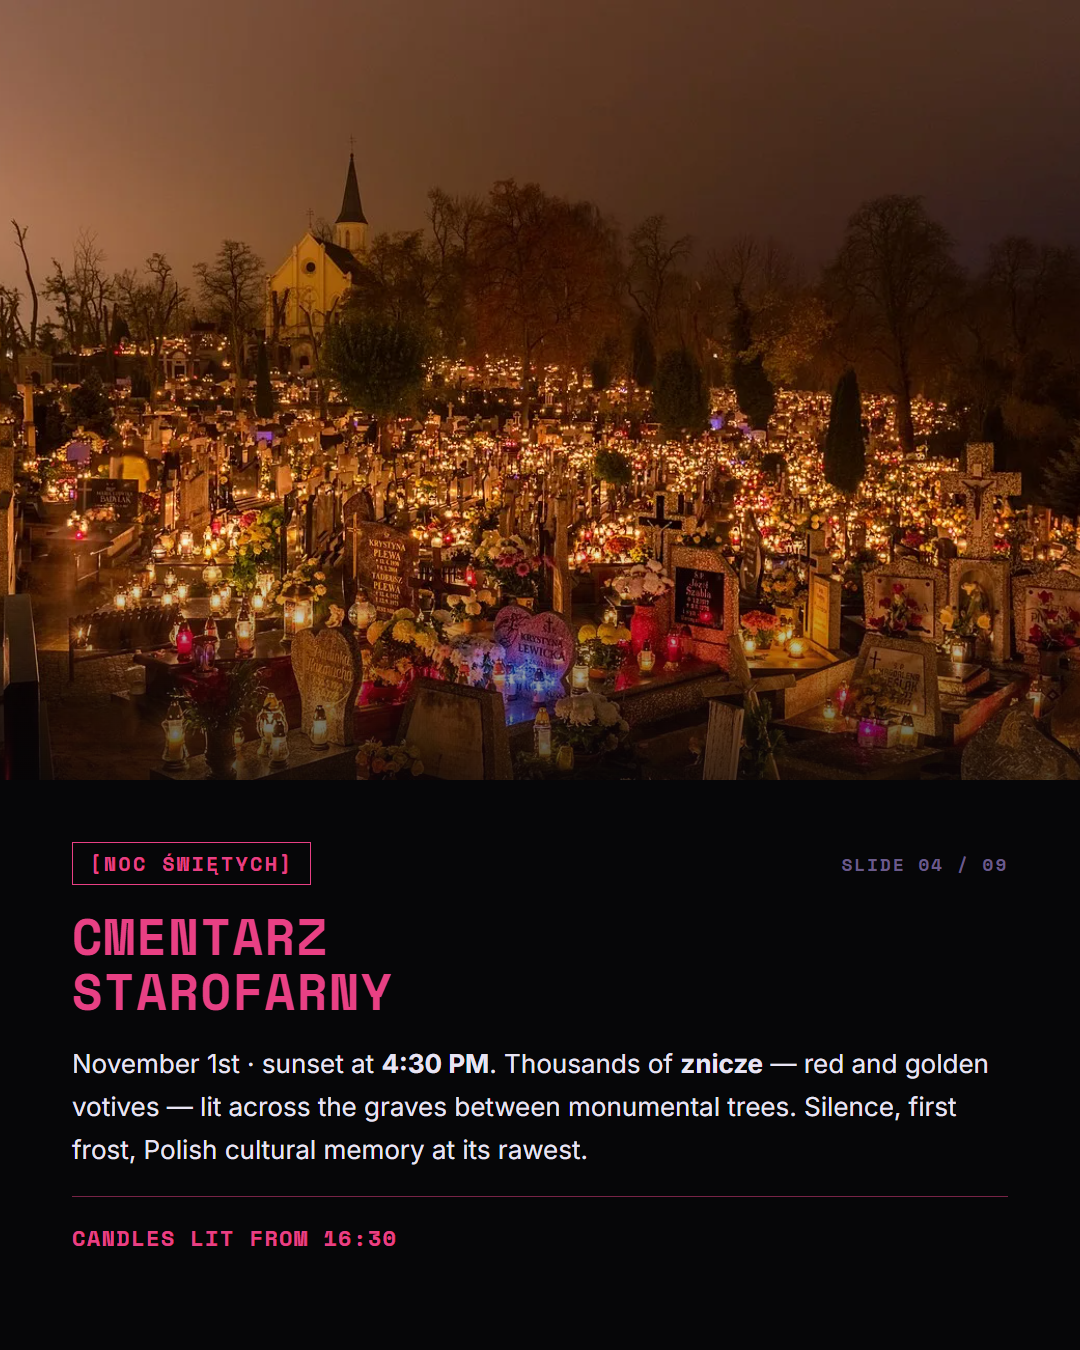
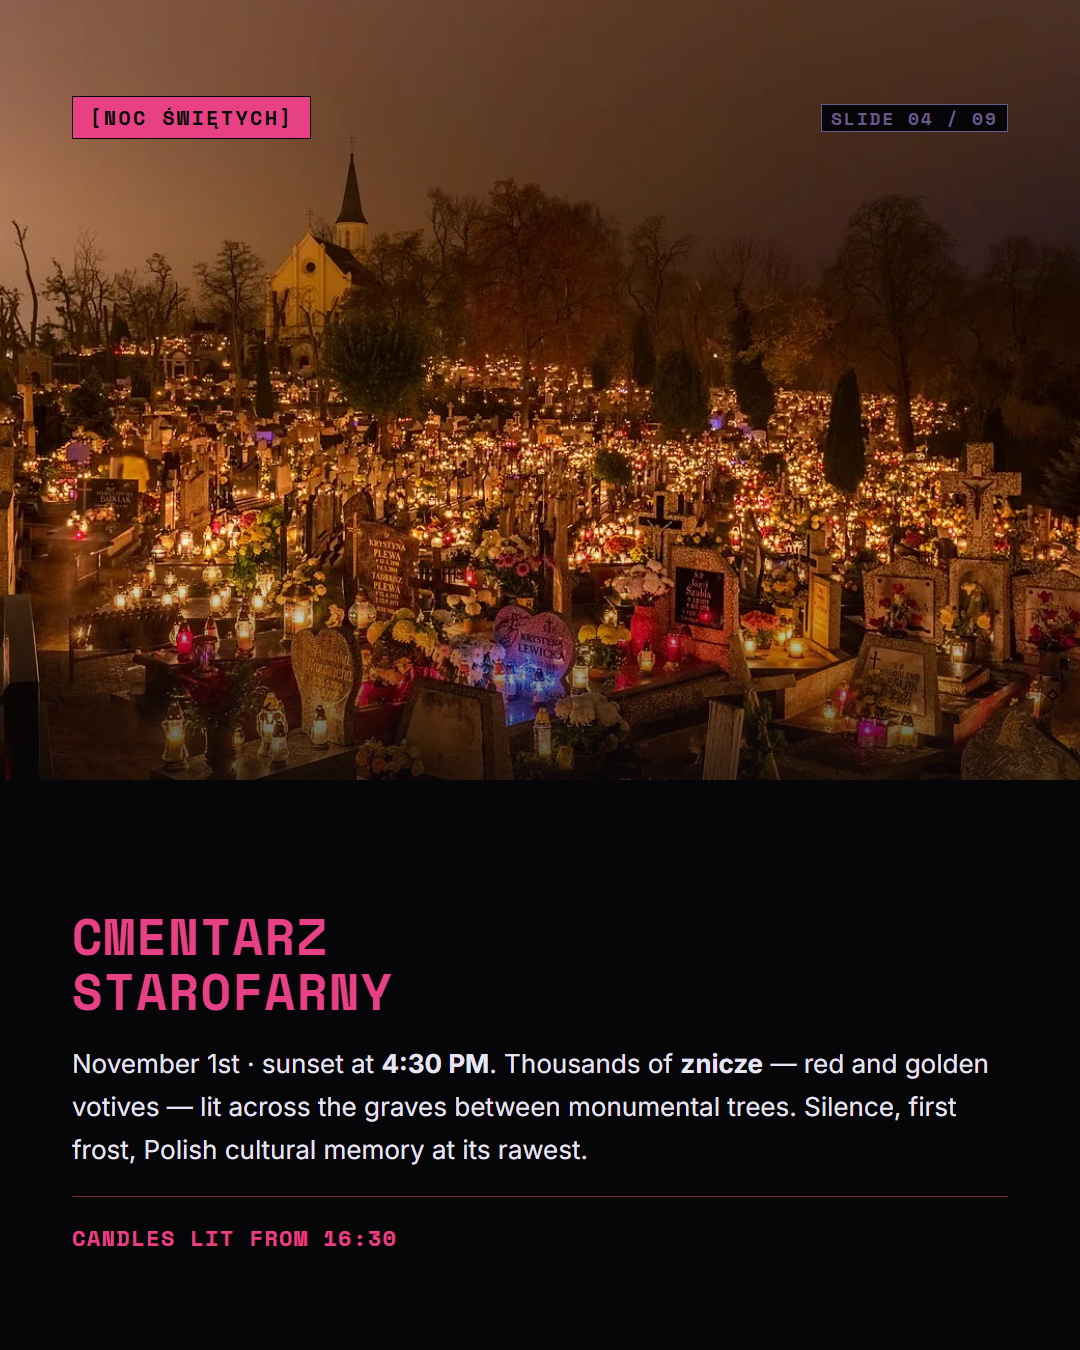
feat: added inverted css class for better contrast

diff --git a/Poland - November/index.html b/Poland - November/index.html
@@ -266,6 +266,23 @@ body {
     display: inline-block;
     padding: 6px 16px;
   }
+    .tag-inverted {
+    font-family: 'Space Mono', monospace;
+    font-size: 20px; font-weight: 700;
+    letter-spacing: .12em; text-transform: uppercase;
+    color: var(--text); border: 1px solid var(--text);
+    background-color: var(--accent);
+    display: inline-block; padding: 6px 16px;
+  }
+    .counter-inverted {
+    font-family: 'Space Mono', monospace;
+    font-size: 18px; font-weight: 700;
+    letter-spacing: .1em; color: var(--text-muted);
+    border: 1px solid var(--text-muted);
+    background-color: var(--bg);
+    padding-left: 1%;
+    padding-right: 1%;
+  }
   .counter {
     font-family: 'Space Mono', monospace;
     font-size: 18px; font-weight: 700;
@@ -624,11 +641,11 @@ body { background: var(--page-bg) !important; }
   <div class="overlay" style="height:800px;
     background:linear-gradient(to top,#060608 58%,transparent);"></div>
   <div class="safe col gap-48">
+          <div class="row">
+        <span class="tag-inverted">[CANALS]</span>
+        <span class="counter-inverted">SLIDE 03 / 09</span>
+  </div>
     <div class="col gap-24 mt-auto">
-      <div class="row">
-        <span class="tag">[CANALS]</span>
-        <span class="counter">SLIDE 03 / 09</span>
-      </div>
       <div class="title-large">WYSPA<br>MŁYŃSKA</div>
       <div class="body-text">
         Mill Island on the Brda river. Historic <strong>18th-century red brick
@@ -653,11 +670,12 @@ body { background: var(--page-bg) !important; }
   <div class="overlay" style="height:820px;
     background:linear-gradient(to top,#060608 60%,rgba(6,6,8,.3) 85%,transparent);"></div>
   <div class="safe col gap-48">
-    <div class="col gap-24 mt-auto">
-          <div class="row">
-      <span class="tag" style="color:var(--accent2);border-color:var(--accent2);">[NOC ŚWIĘTYCH]</span>
-      <span class="counter">SLIDE 04 / 09</span>
+              <div class="row">
+      <span class="tag" style="color:var(--bg);border-color:var(--bg); background-color: var(--accent2);">[NOC ŚWIĘTYCH]</span>
+      <span class="counter-inverted">SLIDE 04 / 09</span>
     </div>
+    <div class="col gap-24 mt-auto">
+
       <div class="title-medium" style="color:var(--accent2);">CMENTARZ<br>STAROFARNY</div>
       <div class="body-text">
         November 1st · sunset at <strong>4:30 PM</strong>.
@@ -682,11 +700,12 @@ body { background: var(--page-bg) !important; }
   <div class="overlay" style="height:770px;
     background:linear-gradient(to top,#060608 57%,transparent);"></div>
   <div class="safe col gap-48">
-    <div class="col gap-24 mt-auto">
-      <div class="row">
-        <span class="tag">[UNESCO]</span>
-        <span class="counter">SLIDE 05 / 09</span>
+          <div class="row">
+        <span class="tag-inverted">[UNESCO]</span>
+        <span class="counter-inverted">SLIDE 05 / 09</span>
       </div>
+    <div class="col gap-24 mt-auto">
+
       <div class="title-large">TORUŃ<br>GOTHIC</div>
       <div class="body-text">
         The only Polish city to survive WWII intact.
@@ -714,11 +733,12 @@ body { background: var(--page-bg) !important; }
   <div class="overlay" style="height:760px;
     background:linear-gradient(to top,#060608 56%,transparent);"></div>
   <div class="safe col gap-48">
-    <div class="col gap-24 mt-auto">
-      <div class="row">
-        <span class="tag">[MEDIEVAL]</span>
-        <span class="counter">SLIDE 06 / 09</span>
+          <div class="row">
+        <span class="tag-inverted">[MEDIEVAL]</span>
+        <span class="counter-inverted">SLIDE 06 / 09</span>
       </div>
+    <div class="col gap-24 mt-auto">
+
       <div class="title-large">POZNAŃ<br>RYNEK</div>
       <div class="body-text">
         Renaissance Town Hall by <strong>Giovanni Battista di Quadro</strong>

diff --git a/Poland - November/slides.html b/Poland - November/slides.html
@@ -50,6 +50,23 @@
     display: inline-block;
     padding: 6px 16px;
   }
+      .tag-inverted {
+    font-family: 'Space Mono', monospace;
+    font-size: 20px; font-weight: 700;
+    letter-spacing: .12em; text-transform: uppercase;
+    color: var(--text); border: 1px solid var(--text);
+    background-color: var(--accent);
+    display: inline-block; padding: 6px 16px;
+  }
+    .counter-inverted {
+    font-family: 'Space Mono', monospace;
+    font-size: 18px; font-weight: 700;
+    letter-spacing: .1em; color: var(--text-muted);
+    border: 1px solid var(--text-muted);
+    background-color: var(--bg);
+    padding-left: 1%;
+    padding-right: 1%;
+  }
   .counter {
     font-family: 'Space Mono', monospace;
     font-size: 18px; font-weight: 700;
@@ -354,11 +371,12 @@
   <div class="overlay" style="height:800px;
     background:linear-gradient(to top,#060608 58%,transparent);"></div>
   <div class="safe col gap-48">
-    <div class="col gap-24 mt-auto">
-      <div class="row">
-        <span class="tag">[CANALS]</span>
-        <span class="counter">SLIDE 03 / 09</span>
+          <div class="row">
+        <span class="tag-inverted">[CANALS]</span>
+        <span class="counter-inverted">SLIDE 03 / 09</span>
       </div>
+    <div class="col gap-24 mt-auto">
+
       <div class="title-large">WYSPA<br>MŁYŃSKA</div>
       <div class="body-text">
         Mill Island on the Brda river. Historic <strong>18th-century red brick
@@ -383,11 +401,11 @@
   <div class="overlay" style="height:820px;
     background:linear-gradient(to top,#060608 60%,rgba(6,6,8,.3) 85%,transparent);"></div>
   <div class="safe col gap-48">
-    <div class="col gap-24 mt-auto">
-          <div class="row">
-      <span class="tag" style="color:var(--accent2);border-color:var(--accent2);">[NOC ŚWIĘTYCH]</span>
-      <span class="counter">SLIDE 04 / 09</span>
+                  <div class="row">
+      <span class="tag" style="color:var(--bg);border-color:var(--bg); background-color: var(--accent2);">[NOC ŚWIĘTYCH]</span>
+      <span class="counter-inverted">SLIDE 04 / 09</span>
     </div>
+    <div class="col gap-24 mt-auto">
       <div class="title-medium" style="color:var(--accent2);">CMENTARZ<br>STAROFARNY</div>
       <div class="body-text">
         November 1st · sunset at <strong>4:30 PM</strong>.
@@ -412,11 +430,12 @@
   <div class="overlay" style="height:770px;
     background:linear-gradient(to top,#060608 57%,transparent);"></div>
   <div class="safe col gap-48">
-    <div class="col gap-24 mt-auto">
-      <div class="row">
-        <span class="tag">[UNESCO]</span>
-        <span class="counter">SLIDE 05 / 09</span>
+          <div class="row">
+        <span class="tag-inverted">[UNESCO]</span>
+        <span class="counter-inverted">SLIDE 05 / 09</span>
       </div>
+    <div class="col gap-24 mt-auto">
+
       <div class="title-large">TORUŃ<br>GOTHIC</div>
       <div class="body-text">
         The only Polish city to survive WWII intact.
@@ -444,11 +463,12 @@
   <div class="overlay" style="height:760px;
     background:linear-gradient(to top,#060608 56%,transparent);"></div>
   <div class="safe col gap-48">
-    <div class="col gap-24 mt-auto">
-      <div class="row">
-        <span class="tag">[MEDIEVAL]</span>
-        <span class="counter">SLIDE 06 / 09</span>
+          <div class="row">
+        <span class="tag-inverted">[MEDIEVAL]</span>
+        <span class="counter-inverted">SLIDE 06 / 09</span>
       </div>
+    <div class="col gap-24 mt-auto">
+
       <div class="title-large">POZNAŃ<br>RYNEK</div>
       <div class="body-text">
         Renaissance Town Hall by <strong>Giovanni Battista di Quadro</strong>

diff --git a/Serbia - New Years eve/index.html b/Serbia - New Years eve/index.html
@@ -262,11 +262,28 @@ body {
     color: var(--accent); border: 1px solid var(--accent);
     display: inline-block; padding: 6px 16px;
   }
+  .tag-inverted {
+    font-family: 'Space Mono', monospace;
+    font-size: 20px; font-weight: 700;
+    letter-spacing: .12em; text-transform: uppercase;
+    color: var(--text); border: 1px solid var(--text);
+    background-color: var(--accent);
+    display: inline-block; padding: 6px 16px;
+  }
   .tag-hot { color: var(--accent2); border-color: var(--accent2); }
   .counter {
     font-family: 'Space Mono', monospace;
     font-size: 18px; font-weight: 700;
     letter-spacing: .1em; color: var(--text-muted);
+  }
+  .counter-inverted {
+    font-family: 'Space Mono', monospace;
+    font-size: 18px; font-weight: 700;
+    letter-spacing: .1em; color: var(--text-muted);
+    border: 1px solid var(--text-muted);
+    background-color: var(--bg);
+    padding-left: 1%;
+    padding-right: 1%;
   }
   .title-display {
     font-family: 'Space Mono', monospace;
@@ -531,11 +548,12 @@ body { background: var(--page-bg) !important; }
   <div class="overlay" style="height:810px;
     background:linear-gradient(to top,#060608 58%,transparent);"></div>
   <div class="safe col">
-    <div class="col gap-24 mt-auto">
-          <div class="row">
-      <span class="tag">[BRUTALISM]</span>
-      <span class="counter">SLIDE 03 / 09</span>
+    <div class="row">
+      <span class="tag-inverted">[BRUTALISM]</span>
+      <span class="counter-inverted">SLIDE 03 / 09</span>
     </div>
+    <div class="col gap-24 mt-auto">
+
       <div class="title-large">NOVI<br>BEOGRAD</div>
       <div class="body-text">
         Built from scratch on marshland after WWII — the most
@@ -561,11 +579,11 @@ body { background: var(--page-bg) !important; }
   <div class="overlay" style="height:790px;
     background:linear-gradient(to top,#060608 58%,transparent);"></div>
   <div class="safe col">
-    <div class="col gap-24 mt-auto">
-          <div class="row">
-      <span class="tag">[EASTERN GATE]</span>
-      <span class="counter">SLIDE 04 / 09</span>
+              <div class="row">
+      <span class="tag-inverted">[EASTERN GATE]</span>
+      <span class="counter-inverted">SLIDE 04 / 09</span>
     </div>
+    <div class="col gap-24 mt-auto">
       <div class="title-large">KAPIJA<br>BEOGRADA</div>
       <div class="body-text">
         Three brutalist towers marking the eastern entrance
@@ -619,11 +637,12 @@ body { background: var(--page-bg) !important; }
   <div class="overlay" style="height:770px;
     background:linear-gradient(to top,#060608 57%,transparent);"></div>
   <div class="safe col">
-    <div class="col gap-24 mt-auto">
-          <div class="row">
-      <span class="tag">[ZEMUN]</span>
-      <span class="counter">SLIDE 06 / 09</span>
+              <div class="row">
+      <span class="tag-inverted">[ZEMUN]</span>
+      <span class="counter-inverted">SLIDE 06 / 09</span>
     </div>
+    <div class="col gap-24 mt-auto">
+
       <div class="title-large">GARDOŠ<br>TOWER</div>
       <div class="body-text">
         Austro-Hungarian watchtower (1896) above the Zemun

diff --git a/Serbia - New Years eve/slides.html b/Serbia - New Years eve/slides.html
@@ -46,11 +46,28 @@
     color: var(--accent); border: 1px solid var(--accent);
     display: inline-block; padding: 6px 16px;
   }
+    .tag-inverted {
+    font-family: 'Space Mono', monospace;
+    font-size: 20px; font-weight: 700;
+    letter-spacing: .12em; text-transform: uppercase;
+    color: var(--text); border: 1px solid var(--text);
+    background-color: var(--accent);
+    display: inline-block; padding: 6px 16px;
+  }
   .tag-hot { color: var(--accent2); border-color: var(--accent2); }
   .counter {
     font-family: 'Space Mono', monospace;
     font-size: 18px; font-weight: 700;
     letter-spacing: .1em; color: var(--text-muted);
+  }
+    .counter-inverted {
+    font-family: 'Space Mono', monospace;
+    font-size: 18px; font-weight: 700;
+    letter-spacing: .1em; color: var(--text-muted);
+    border: 1px solid var(--text-muted);
+    background-color: var(--bg);
+    padding-left: 1%;
+    padding-right: 1%;
   }
   .title-display {
     font-family: 'Space Mono', monospace;
@@ -262,11 +279,12 @@
   <div class="overlay" style="height:810px;
     background:linear-gradient(to top,#060608 58%,transparent);"></div>
   <div class="safe col">
-    <div class="col gap-24 mt-auto">
-          <div class="row">
-      <span class="tag">[BRUTALISM]</span>
-      <span class="counter">SLIDE 03 / 09</span>
+              <div class="row">
+      <span class="tag-inverted">[BRUTALISM]</span>
+      <span class="counter-inverted">SLIDE 03 / 09</span>
     </div>
+    <div class="col gap-24 mt-auto">
+
       <div class="title-large">NOVI<br>BEOGRAD</div>
       <div class="body-text">
         Built from scratch on marshland after WWII — the most
@@ -292,11 +310,12 @@
   <div class="overlay" style="height:790px;
     background:linear-gradient(to top,#060608 58%,transparent);"></div>
   <div class="safe col">
-    <div class="col gap-24 mt-auto">
-          <div class="row">
-      <span class="tag">[EASTERN GATE]</span>
-      <span class="counter">SLIDE 04 / 09</span>
+              <div class="row">
+      <span class="tag-inverted">[EASTERN GATE]</span>
+      <span class="counter-inverted">SLIDE 04 / 09</span>
     </div>
+    <div class="col gap-24 mt-auto">
+
       <div class="title-large">KAPIJA<br>BEOGRADA</div>
       <div class="body-text">
         Three brutalist towers marking the eastern entrance
@@ -350,11 +369,12 @@
   <div class="overlay" style="height:770px;
     background:linear-gradient(to top,#060608 57%,transparent);"></div>
   <div class="safe col">
-    <div class="col gap-24 mt-auto">
-          <div class="row">
-      <span class="tag">[ZEMUN]</span>
-      <span class="counter">SLIDE 06 / 09</span>
+              <div class="row">
+      <span class="tag-inverted">[ZEMUN]</span>
+      <span class="counter-inverted">SLIDE 06 / 09</span>
     </div>
+    <div class="col gap-24 mt-auto">
+
       <div class="title-large">GARDOŠ<br>TOWER</div>
       <div class="body-text">
         Austro-Hungarian watchtower (1896) above the Zemun
